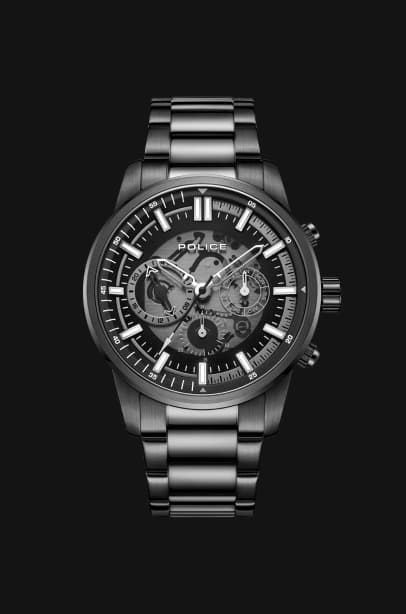
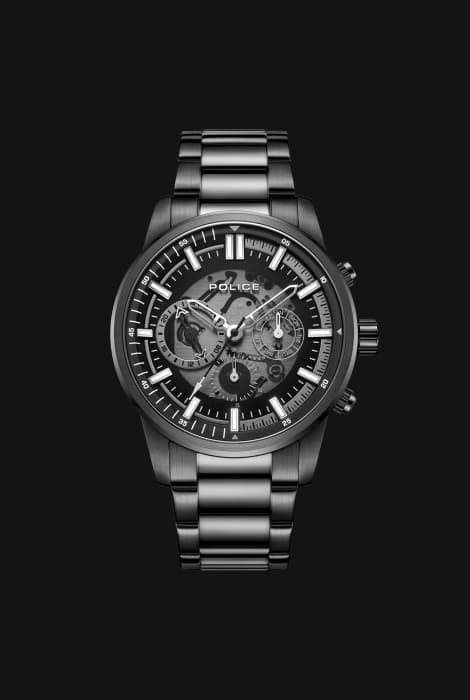
update

Changed region(s): [[0.2069, 0.1547, 0.8571, 0.8664]]

diff --git a/src/css/sale.css b/src/css/sale.css
@@ -392,7 +392,7 @@ body {
   }
 
   .sale-item-big {
-    width: 406px;
+    width: 412px;
     height: 614px;
   }
 
@@ -466,7 +466,7 @@ body {
   }
 
   .sale-item-big {
-    width: 406px;
+    width: 412px;
     height: 614px;
   }
 
